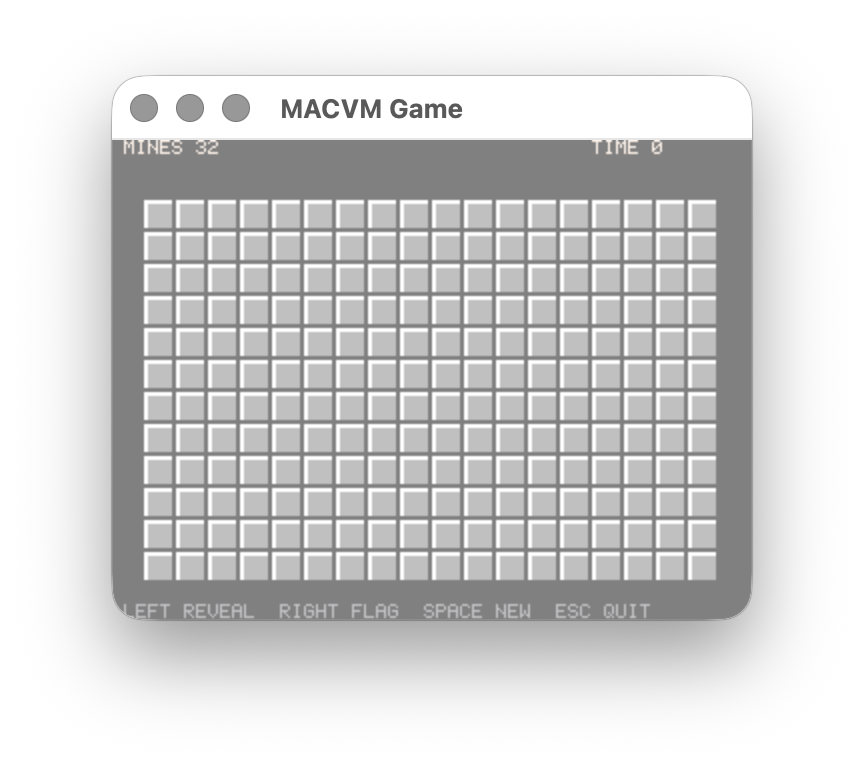
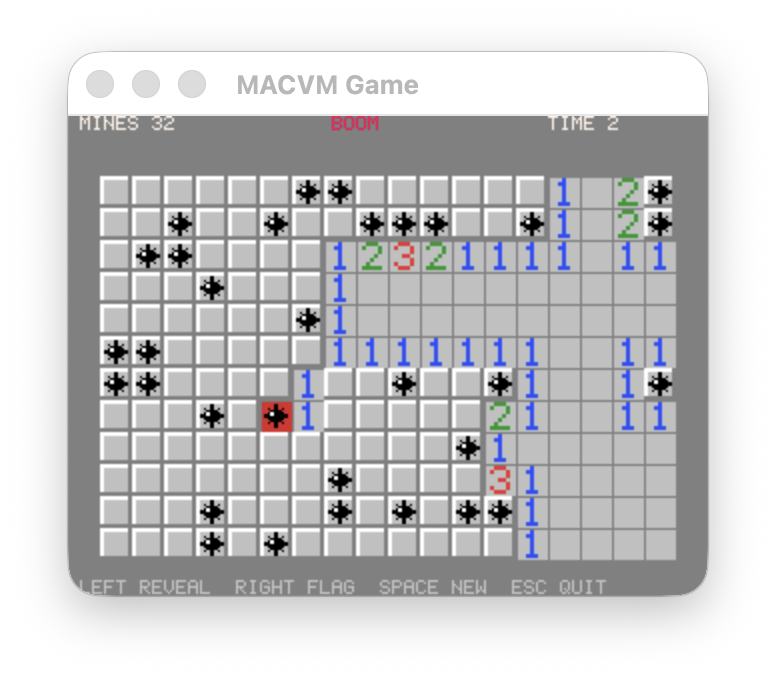
gallery: Minesweeper, actually played
The board was untouched — a grid of identical squares, which shows the
game exists and nothing else. This one was played by hand to a real
losing finish: the field opens, the fatal square is marked in red, and
the neighbour counts appear in the colours everyone expects. A scripted
attempt at the same shot kept coming back blank (the snapgame flake), so
the mouse that played this was a human one.

diff --git a/docs/gallery/README.md b/docs/gallery/README.md
@@ -63,7 +63,7 @@ the Browser while it runs.
 | ![Galaxigans](13-demo-galaxigans.png) | **Galaxigans** — a full arcade game: sprite sheets, waves, score, HUD, attract mode. |
 | ![Worms](12-demo-worms.png) | **Worms** — sprite handling and swarm movement. |
 | ![Game of Life](20-demo-life.png) | **Game of Life** — Conway, with the generation and population counted on screen. SPACE pauses; the left button *draws* live cells and the right one erases, and because drawing reads the button's held state rather than a click, dragging paints a stroke. |
-| ![Minesweeper](21-demo-minesweeper.png) | **Minesweeper** — an 18×12 field with 32 mines. Left click reveals, right click flags, SPACE deals a new board. `Minesweeper launchWithSeed: 12345` deals the same board every time, which is how its tests are written. |
+| ![Minesweeper](21-demo-minesweeper.png) | **Minesweeper** — an 18×12 field with 32 mines, played here to a real (losing) finish: hitting a mine ends the game, opens the whole field and marks the fatal square in red, with the neighbour counts in the colours everyone expects. Left click reveals, right click flags, SPACE deals a new board. `Minesweeper launchWithSeed: 12345` deals the same board every time, which is how its tests are written. |
 | ![FreeCell](22-demo-freecell.png) | **FreeCell** — the card game, dealt to Microsoft's published deal specification, so deal numbers mean what they mean everywhere else: `FreeCell launchDeal: 617` is the famously hard one, and 11982 is the one deal of the original 32000 nobody can win. Drag with the mouse; right-click sends a card up. |
 
 ### Compute
